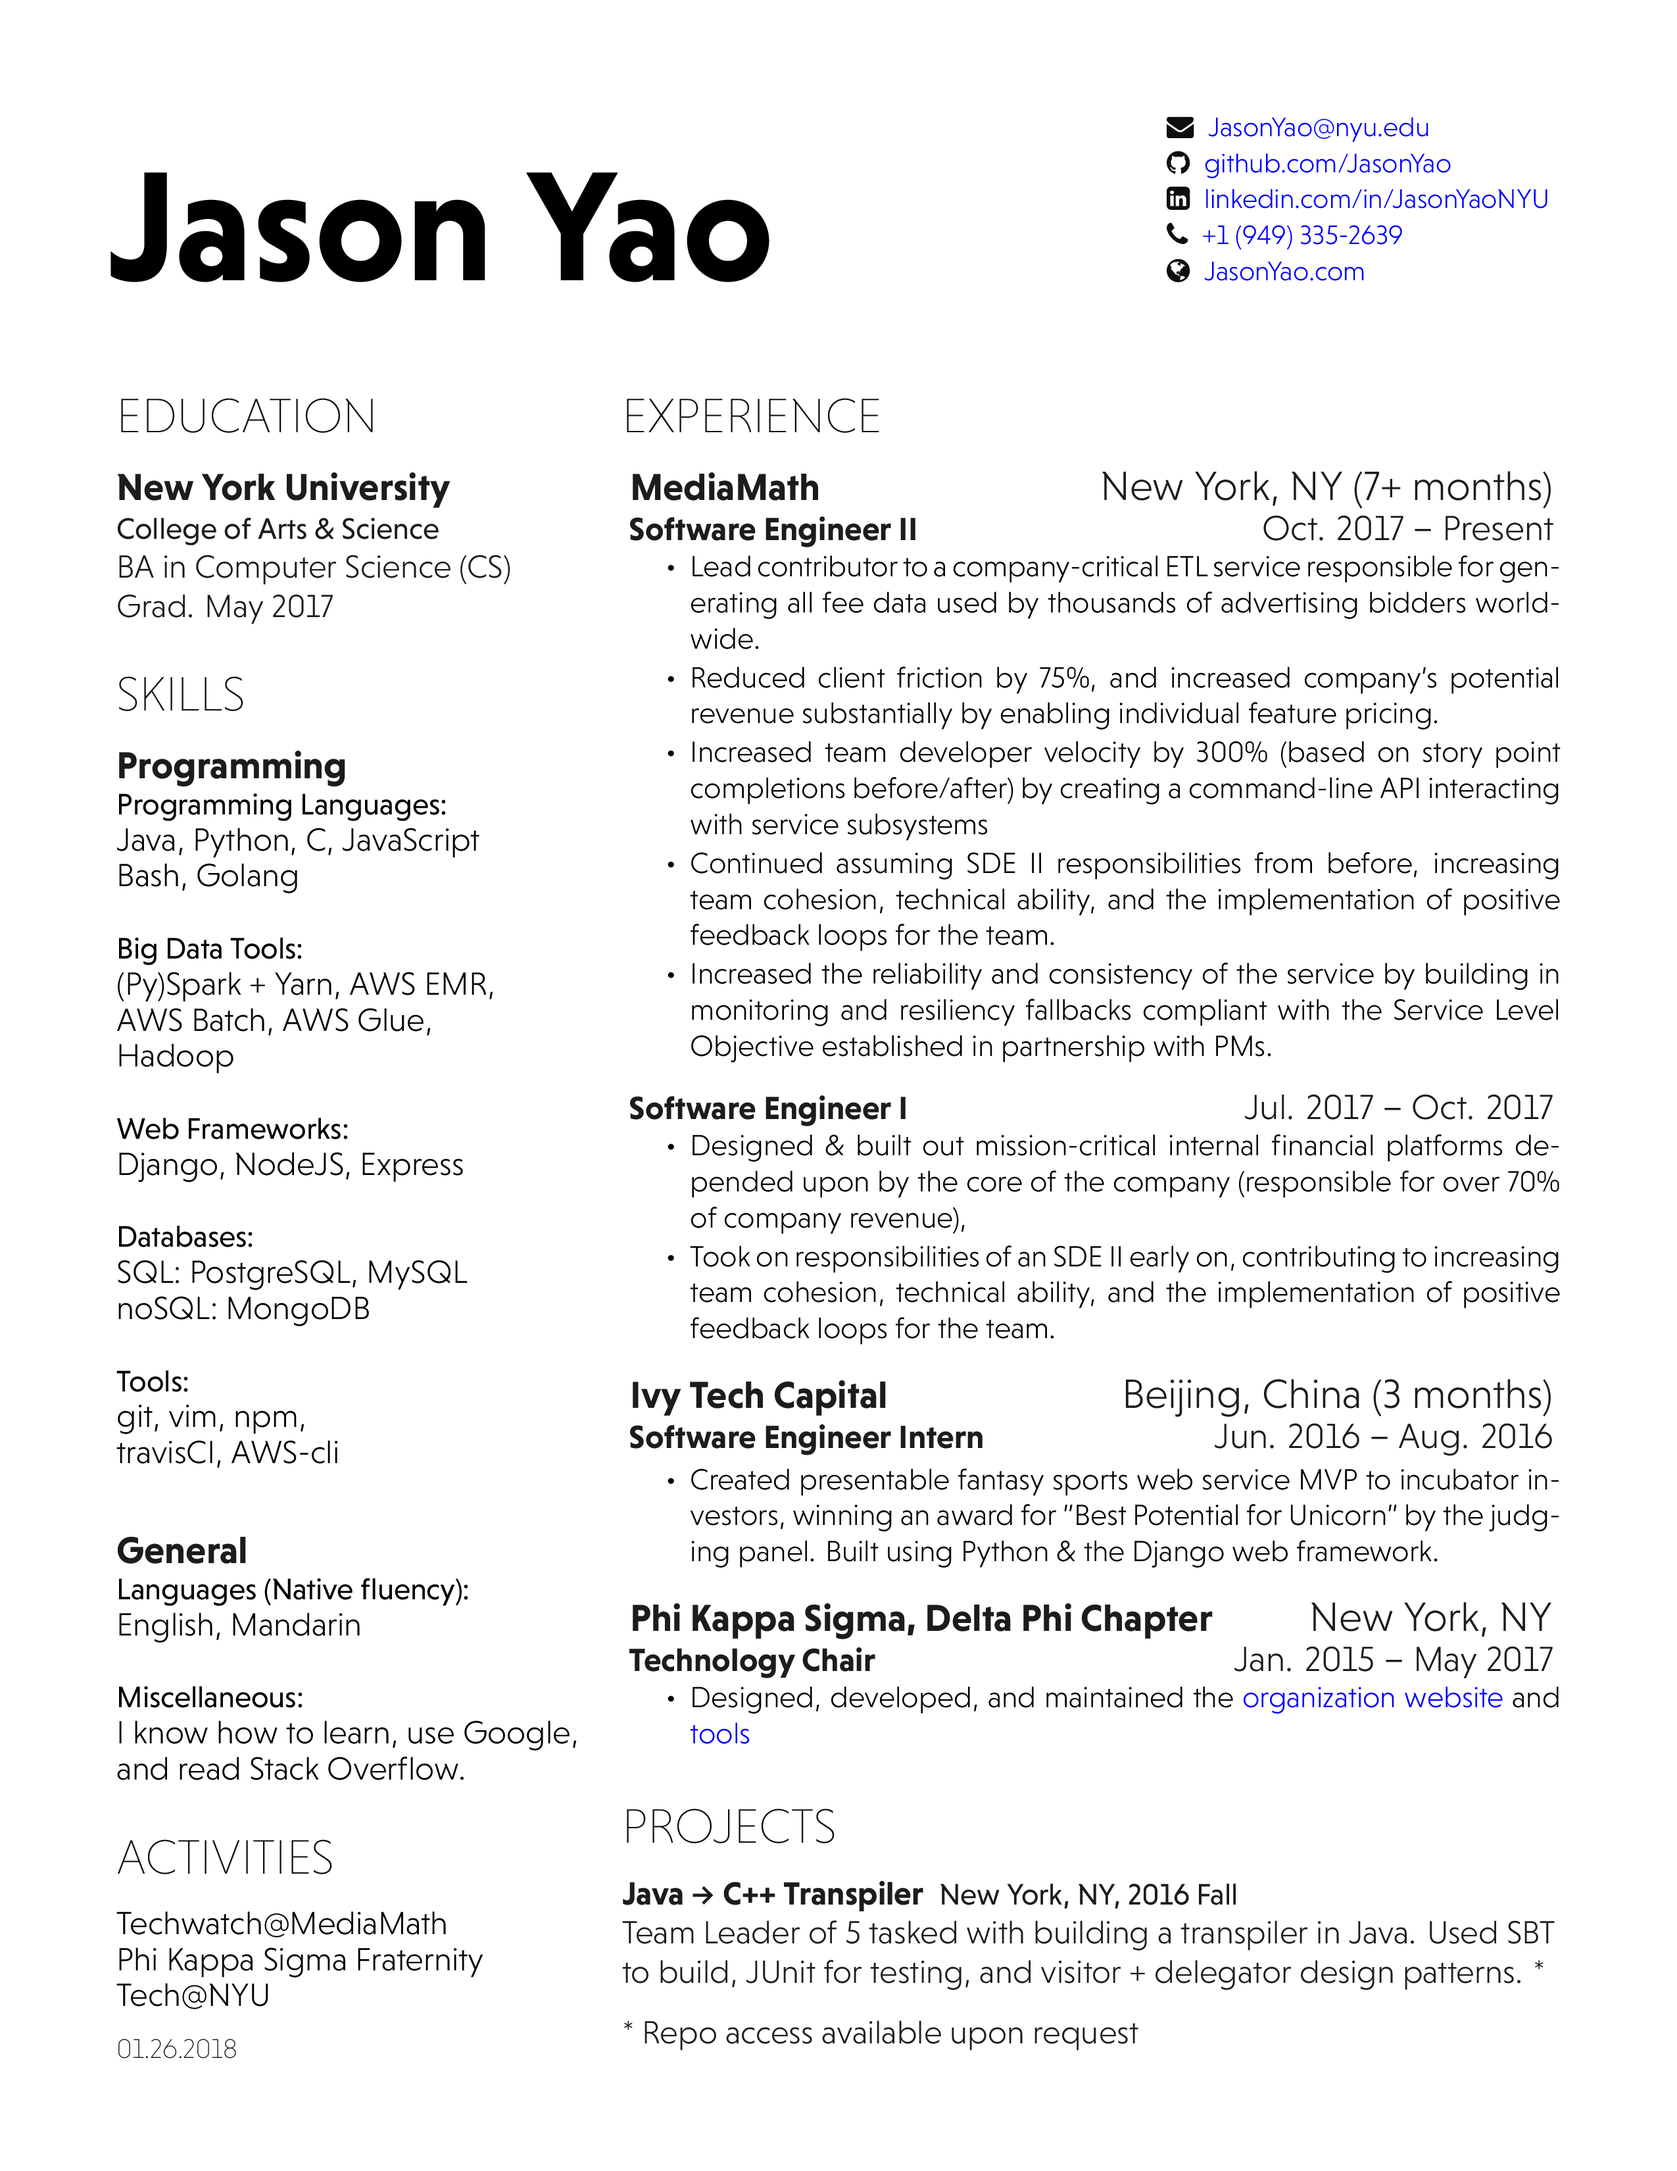
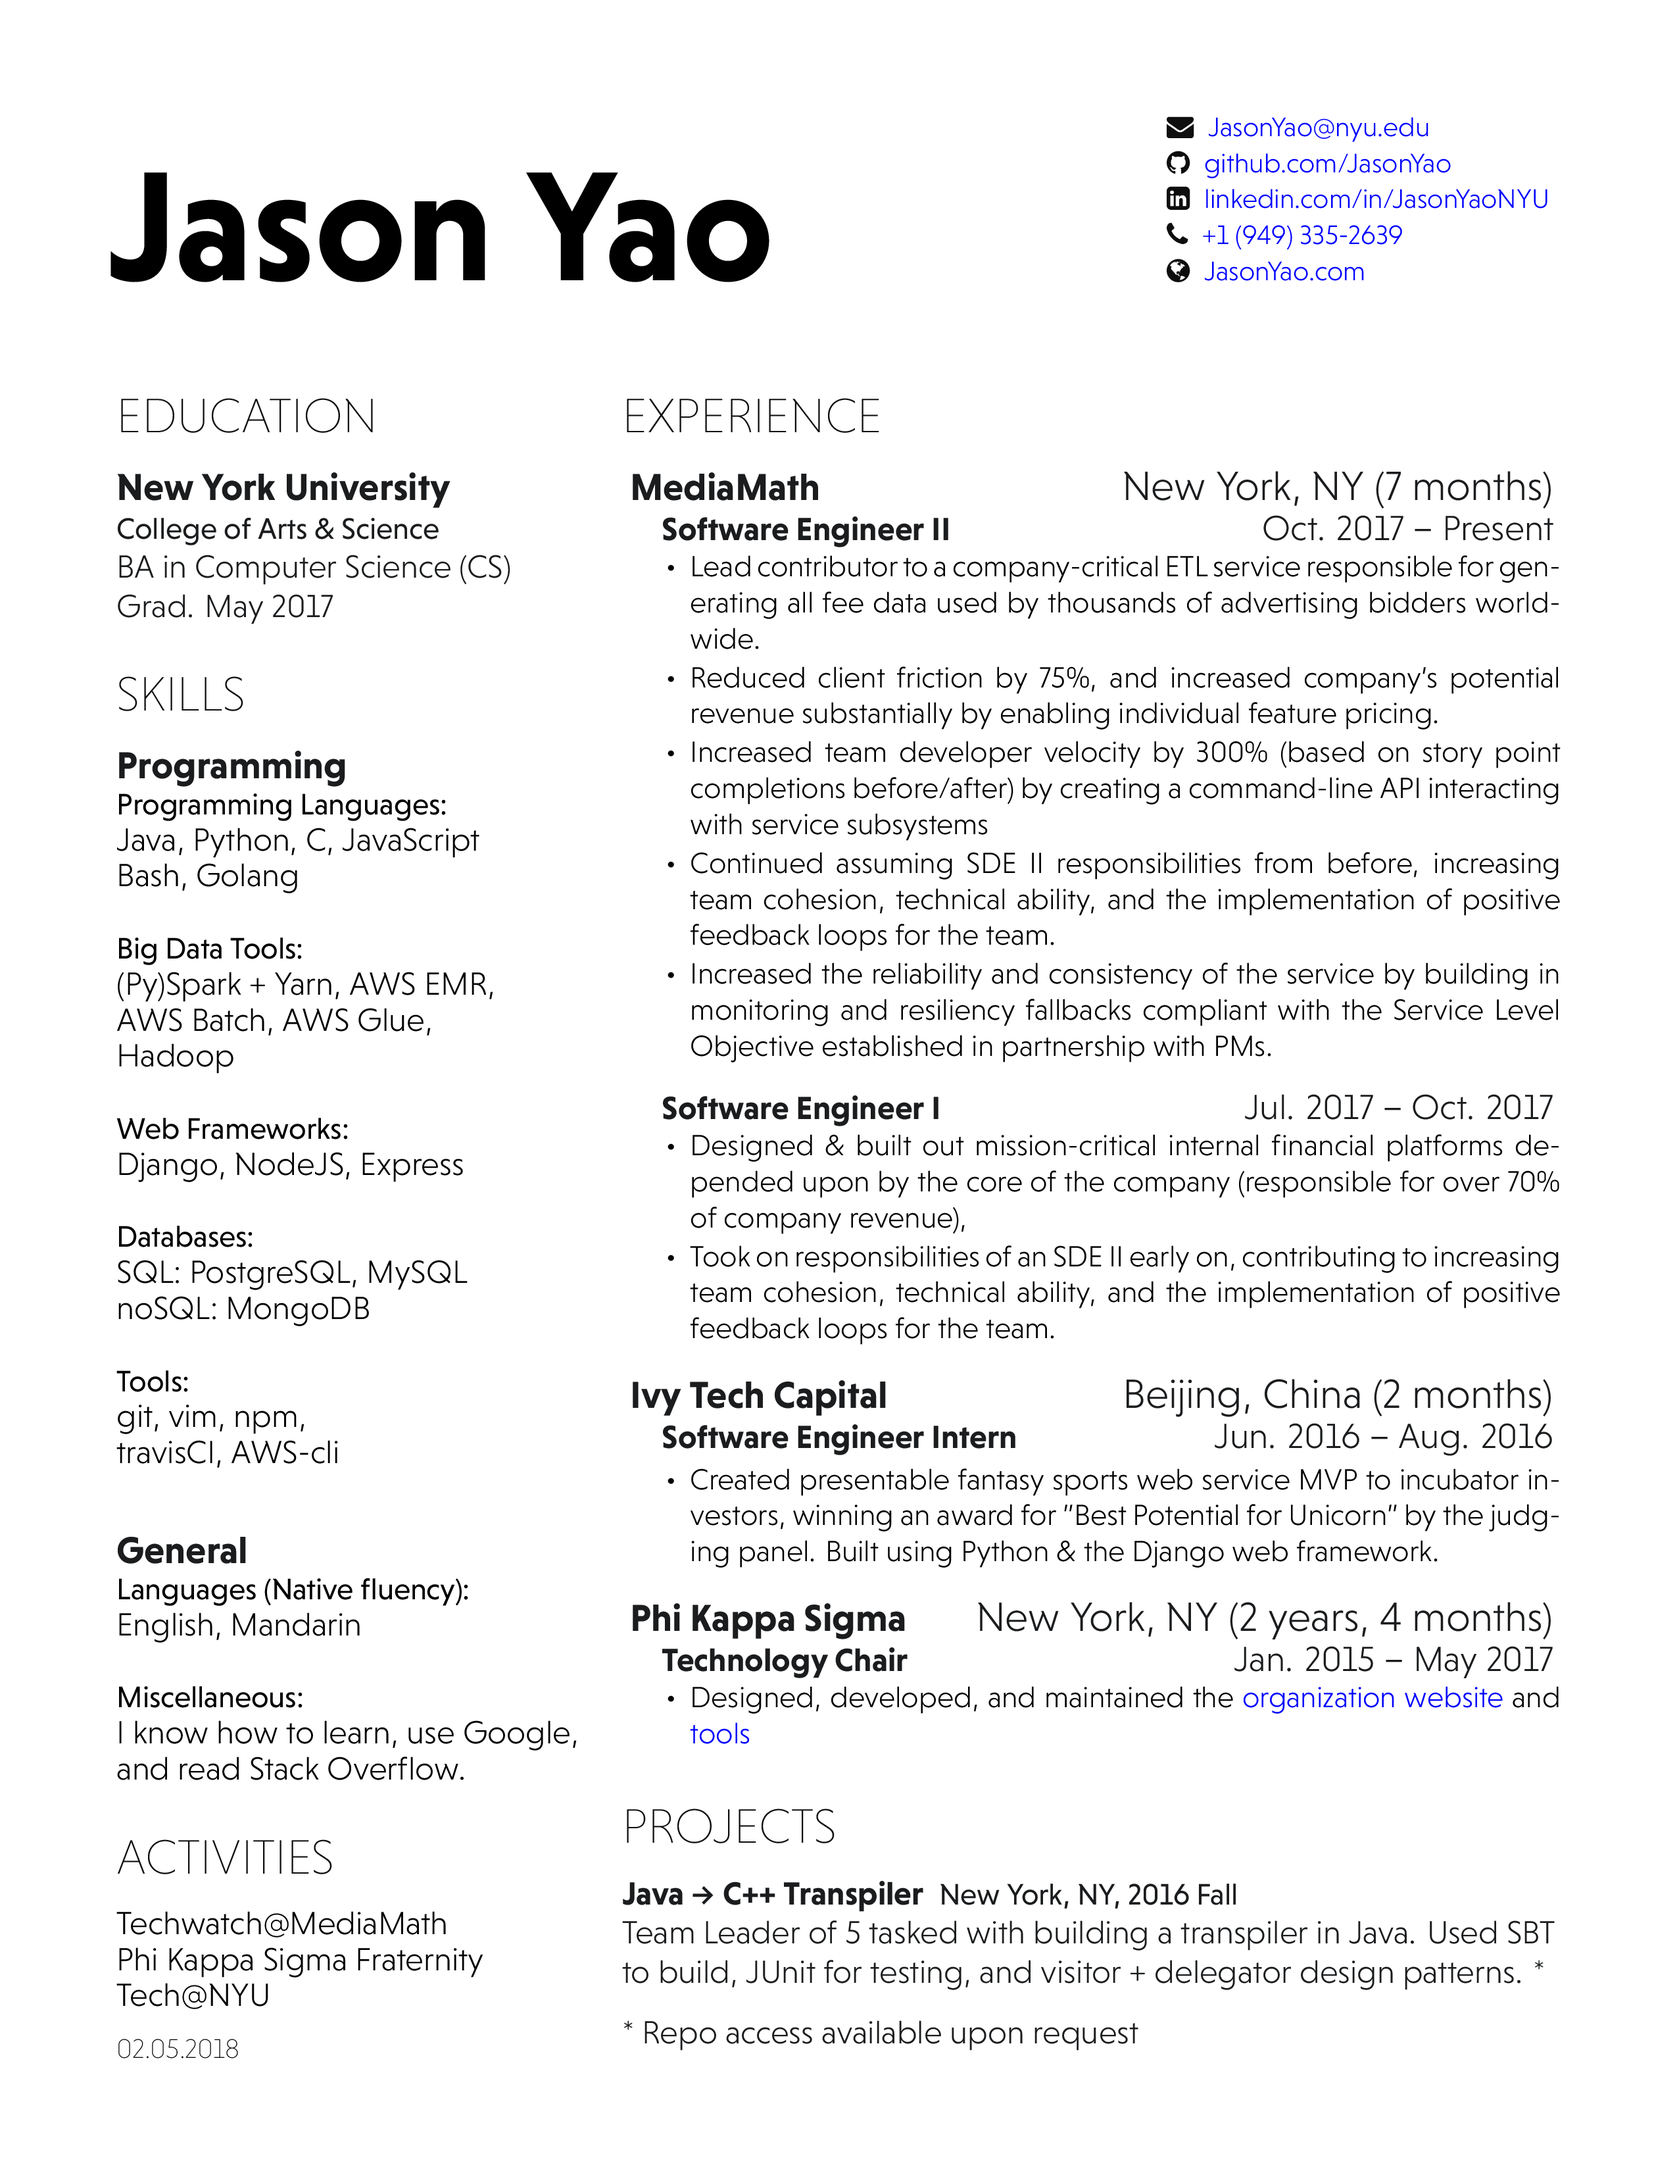
[Build] 410d27ca8ebd604584efbb7e14a6615bfefc4ada

diff --git a/Resume_Jason_Yao.tex b/Resume_Jason_Yao.tex
@@ -138,7 +138,10 @@ Tech@NYU \\
 %%
 \section{Experience}
 
-\workplace{MediaMath}{New York, NY (7+ months)}
+% Note: All uses of \diffdate inside a \section, or \workplace
+% requires a \protect in front, as discussed at:
+% https://tex.stackexchange.com/questions/43127/error-with-newcommand-and-section/43130#43130
+\workplace{MediaMath}{New York, NY}{\protect\diffdates{2017}{07}{\the\year}{\the\month}}
 \position{Software Engineer II}{Oct. 2017 – Present}
 
  \vspace{\topsep} % Hacky fix for awkward extra vertical space
@@ -169,7 +172,7 @@ Objective established in partnership with PMs.
 \end{tightemize}
 \sectionsep
 
-\workplace{Ivy Tech Capital}{Beijing, China (3 months)}
+\workplace{Ivy Tech Capital}{Beijing, China}{\protect\diffdates{2016}{06}{2016}{08}}
 \position{Software Engineer Intern}{Jun. 2016 – Aug. 2016}
 
 \vspace{0.9em} % Hacky fix for awkward extra vertical space
@@ -181,7 +184,7 @@ by the judging panel. Built using Python \& the Django web framework.
 \end{tightemize}
 \sectionsep
 
-\workplace{Phi Kappa Sigma, Delta Phi Chapter}{New York, NY}
+\workplace{Phi Kappa Sigma}{New York, NY}{\protect\diffdates{2015}{01}{2017}{05}}
 \position{Technology Chair}{Jan. 2015 – May 2017}
 
 \vspace{\topsep} % Hacky fix for awkward extra vertical space
